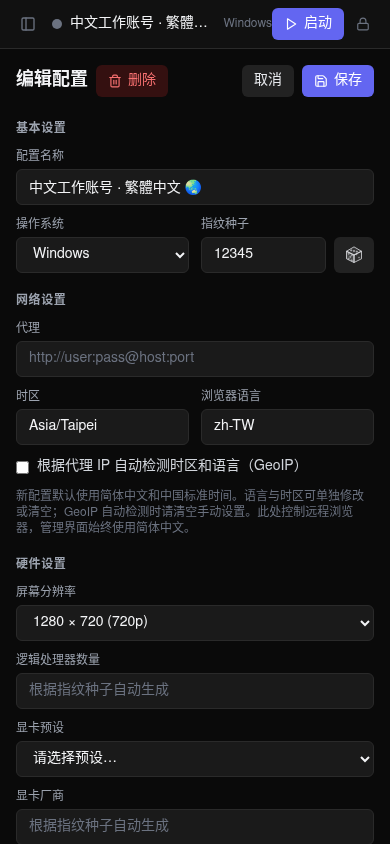
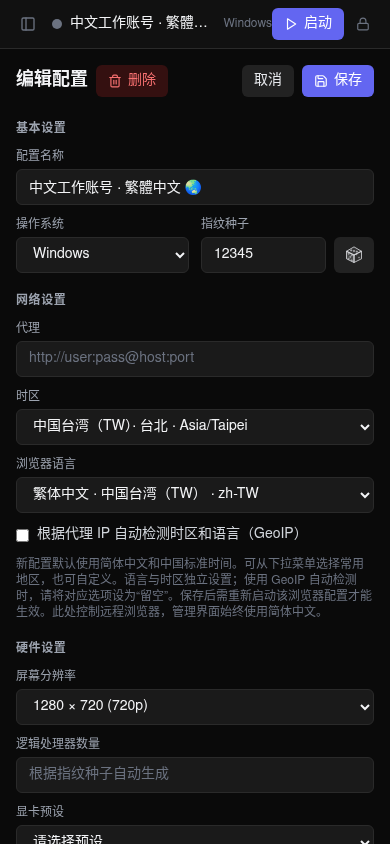
feat: add common timezone and browser language dropdowns

Changed region(s): [[0.0308, 0.4621, 0.9538, 1.0], [0.9231, 0.9858, 0.9538, 1.0], [0.9231, 0.8318, 0.9538, 0.8626]]

diff --git a/frontend/src/components/ProfileForm.tsx b/frontend/src/components/ProfileForm.tsx
@@ -1,6 +1,7 @@
 import { Save, Trash2, X } from "lucide-react";
 import { useEffect, useRef, useState } from "react";
 import type { Profile, ProfileCreateData } from "../lib/api";
+import { LOCALE_OPTIONS, RegionSelect, TIMEZONE_OPTIONS } from "./RegionSelect";
 import {
   KEEPASSXC_EXTENSION_ALLOW_ARG,
   KEEPASSXC_EXTENSION_ARG,
@@ -311,45 +312,25 @@ export function ProfileForm({ profile, onSave, onDelete, onCancel }: ProfileForm
                 placeholder="http://user:pass@host:port"
               />
             </div>
-            <div className="grid grid-cols-2 gap-3">
-              <div>
-                <label className="label" htmlFor="profile-field-5">时区</label>
-                <input
-                  id="profile-field-5"
-                  className="input"
-                  value={form.timezone ?? ""}
-                  onChange={(e) => set("timezone", e.target.value || null)}
-                  placeholder="例如：Asia/Shanghai"
-                  list="timezone-options"
-                />
-                <datalist id="timezone-options">
-                  <option value="Asia/Shanghai">中国标准时间</option>
-                  <option value="Asia/Taipei">台北时间</option>
-                  <option value="Asia/Hong_Kong">香港时间</option>
-                  <option value="Asia/Singapore">新加坡时间</option>
-                  <option value="America/New_York">纽约时间</option>
-                  <option value="Europe/London">伦敦时间</option>
-                  <option value="UTC">协调世界时</option>
-                </datalist>
-              </div>
-              <div>
-                <label className="label" htmlFor="profile-field-6">浏览器语言</label>
-                <input
-                  id="profile-field-6"
-                  className="input"
-                  value={form.locale ?? ""}
-                  onChange={(e) => set("locale", e.target.value || null)}
-                  placeholder="例如：zh-CN"
-                  list="locale-options"
-                />
-                <datalist id="locale-options">
-                  <option value="zh-CN">简体中文（中国大陆）</option>
-                  <option value="zh-TW">繁體中文（台灣）</option>
-                  <option value="zh-HK">繁體中文（香港）</option>
-                  <option value="en-US">英语（美国）</option>
-                  <option value="ja-JP">日语（日本）</option>
-                </datalist>
-              </div>
+            <div className="grid grid-cols-1 sm:grid-cols-2 gap-3">
+              <RegionSelect
+                key={`timezone-${profile?.id ?? "new"}`}
+                id="profile-field-5"
+                label="时区"
+                value={form.timezone}
+                options={TIMEZONE_OPTIONS}
+                placeholder="例如：Asia/Bangkok"
+                onChange={(value) => set("timezone", value)}
+              />
+              <RegionSelect
+                key={`locale-${profile?.id ?? "new"}`}
+                id="profile-field-6"
+                label="浏览器语言"
+                value={form.locale}
+                options={LOCALE_OPTIONS}
+                placeholder="例如：th-TH"
+                onChange={(value) => set("locale", value)}
+              />
             </div>
             <label className="flex items-center gap-2 text-sm text-gray-300 cursor-pointer">
               <input
@@ -360,7 +341,7 @@ export function ProfileForm({ profile, onSave, onDelete, onCancel }: ProfileForm
               />
               根据代理 IP 自动检测时区和语言（GeoIP）
             </label>
-            <p className="text-xs text-gray-500">新配置默认使用简体中文和中国标准时间。语言与时区可单独修改或清空；GeoIP 自动检测时请清空手动设置。此处控制远程浏览器，管理界面始终使用简体中文。</p>
+            <p className="text-xs text-gray-500">新配置默认使用简体中文和中国标准时间。可从下拉菜单选择常用地区，也可自定义。语言与时区独立设置；使用 GeoIP 自动检测时，请将对应选项设为“留空”。保存后需重新启动该浏览器配置才能生效。此处控制远程浏览器，管理界面始终使用简体中文。</p>
           </div>
         </section>
 

diff --git a/frontend/src/components/RegionSelect.tsx b/frontend/src/components/RegionSelect.tsx
@@ -1,0 +1,94 @@
+import { useState } from "react";
+
+type RegionOption = readonly [value: string, label: string];
+
+export const TIMEZONE_OPTIONS: readonly RegionOption[] = [
+  ["Asia/Shanghai", "中国大陆（CN）· 上海"],
+  ["Asia/Taipei", "中国台湾（TW）· 台北"],
+  ["Asia/Hong_Kong", "中国香港（HK）· 香港"],
+  ["America/New_York", "美国（US）· 东部 / 纽约"],
+  ["America/Chicago", "美国（US）· 中部 / 芝加哥"],
+  ["America/Denver", "美国（US）· 山地 / 丹佛"],
+  ["America/Los_Angeles", "美国（US）· 西部 / 洛杉矶"],
+  ["Asia/Tokyo", "日本（JP）· 东京"],
+  ["Europe/Berlin", "德国（DE）· 柏林"],
+  ["Europe/London", "英国（GB）· 伦敦"],
+  ["Europe/Paris", "法国（FR）· 巴黎"],
+  ["Asia/Seoul", "韩国（KR）· 首尔"],
+  ["Asia/Singapore", "新加坡（SG）"],
+  ["America/Toronto", "加拿大（CA）· 多伦多"],
+  ["America/Vancouver", "加拿大（CA）· 温哥华"],
+  ["Australia/Sydney", "澳大利亚（AU）· 悉尼"],
+  ["Asia/Kolkata", "印度（IN）· 加尔各答"],
+  ["UTC", "协调世界时（UTC）"],
+];
+
+export const LOCALE_OPTIONS: readonly RegionOption[] = [
+  ["zh-CN", "简体中文 · 中国大陆（CN）"],
+  ["zh-TW", "繁体中文 · 中国台湾（TW）"],
+  ["zh-HK", "繁体中文 · 中国香港（HK）"],
+  ["en-US", "英语 · 美国（US）"],
+  ["ja-JP", "日语 · 日本（JP）"],
+  ["de-DE", "德语 · 德国（DE）"],
+  ["en-GB", "英语 · 英国（GB）"],
+  ["fr-FR", "法语 · 法国（FR）"],
+  ["ko-KR", "韩语 · 韩国（KR）"],
+  ["en-SG", "英语 · 新加坡（SG）"],
+  ["en-CA", "英语 · 加拿大（CA）"],
+  ["en-AU", "英语 · 澳大利亚（AU）"],
+  ["en-IN", "英语 · 印度（IN）"],
+  ["es-ES", "西班牙语 · 西班牙（ES）"],
+  ["pt-BR", "葡萄牙语 · 巴西（BR）"],
+  ["ru-RU", "俄语 · 俄罗斯（RU）"],
+];
+
+interface RegionSelectProps {
+  id: string;
+  label: string;
+  value: string | null | undefined;
+  options: readonly RegionOption[];
+  placeholder: string;
+  onChange: (value: string | null) => void;
+}
+
+export function RegionSelect({ id, label, value, options, placeholder, onChange }: RegionSelectProps) {
+  const [customSelected, setCustomSelected] = useState(false);
+  const custom = customSelected || (!!value && !options.some(([preset]) => preset === value));
+
+  return (
+    <div className="min-w-0">
+      <label className="label" htmlFor={id}>{label}</label>
+      <select
+        id={id}
+        className="input"
+        value={custom ? "custom" : (value ?? "")}
+        onChange={(e) => {
+          const next = e.target.value;
+          setCustomSelected(next === "custom");
+          if (next !== "custom") onChange(next || null);
+        }}
+      >
+        <option value="">留空（使用 GeoIP 或浏览器默认值）</option>
+        {options.map(([preset, name]) => (
+          <option key={preset} value={preset}>{name} · {preset}</option>
+        ))}
+        <option value="custom">自定义…</option>
+      </select>
+      {custom && (
+        <div className="mt-2">
+          <label className="label" htmlFor={`${id}-custom`}>自定义{label}</label>
+          <input
+            id={`${id}-custom`}
+            className="input"
+            value={value ?? ""}
+            placeholder={placeholder}
+            onChange={(e) => {
+              setCustomSelected(true);
+              onChange(e.target.value || null);
+            }}
+          />
+        </div>
+      )}
+    </div>
+  );
+}

diff --git a/scripts/check_chinese_ui.py b/scripts/check_chinese_ui.py
@@ -90,8 +90,40 @@ async def main():
         await page.get_by_label('搜索配置').fill('繁體中文')
         await expect(page.get_by_role('button', name='运行中')).to_have_count(0)
         await expect(page.get_by_role('button').filter(has_text='中文工作账号').first).to_be_visible()
-        await page.get_by_label('浏览器语言', exact=True).fill('zh-TW')
-        await page.get_by_label('时区', exact=True).fill('Asia/Taipei')
+        # Verify actual submitted values, persistence, and independent custom fields.
+        for timezone, locale in [
+            ('America/Los_Angeles', 'en-US'),
+            ('Asia/Tokyo', 'ja-JP'),
+            ('Europe/Berlin', 'de-DE'),
+        ]:
+            await page.get_by_label('时区', exact=True).select_option(timezone)
+            await page.get_by_label('浏览器语言', exact=True).select_option(locale)
+            await page.get_by_role('button', name='保存', exact=True).click()
+            await expect(page.get_by_role('button', name='保存', exact=True)).to_be_enabled()
+            assert profiles[0]['timezone'] == timezone
+            assert profiles[0]['locale'] == locale
+        await page.get_by_label('时区', exact=True).select_option('custom')
+        await page.get_by_label('自定义时区', exact=True).fill('Asia/Bangkok')
+        await expect(page.get_by_label('浏览器语言', exact=True)).to_have_value('de-DE')
+        await page.get_by_label('浏览器语言', exact=True).select_option('custom')
+        await page.get_by_label('自定义浏览器语言', exact=True).fill('th-TH')
+        await page.get_by_role('button', name='保存', exact=True).click()
+        await expect(page.get_by_role('button', name='保存', exact=True)).to_be_enabled()
+        await page.reload()
+        await page.get_by_role('button').filter(has_text='中文工作账号').first.click()
+        await expect(page.get_by_label('自定义时区', exact=True)).to_have_value('Asia/Bangkok')
+        await expect(page.get_by_label('自定义浏览器语言', exact=True)).to_have_value('th-TH')
+        # Entering a preset manually must not remove the input or lose focus mid-edit.
+        await page.get_by_label('自定义浏览器语言', exact=True).fill('en-US')
+        await expect(page.get_by_label('自定义浏览器语言', exact=True)).to_be_focused()
+        await page.get_by_label('时区', exact=True).select_option('')
+        await page.get_by_label('浏览器语言', exact=True).select_option('')
+        await page.get_by_role('button', name='保存', exact=True).click()
+        await expect(page.get_by_role('button', name='保存', exact=True)).to_be_enabled()
+        assert profiles[0]['timezone'] is None
+        assert profiles[0]['locale'] is None
+        await page.get_by_label('浏览器语言', exact=True).select_option('zh-TW')
+        await page.get_by_label('时区', exact=True).select_option('Asia/Taipei')
         await page.get_by_role('button', name='保存', exact=True).click()
         await page.reload()
         await page.get_by_role('button').filter(has_text='中文工作账号').first.click()
@@ -112,7 +144,7 @@ async def main():
         await expect(page.get_by_text('选择一个浏览器配置，或新建配置开始使用')).to_be_visible()
         assert not profiles
         assert not errors, errors
-        print('PASS: Chinese login/errors, create/edit/search/delete, Unicode payload, locale preservation, desktop/mobile layout; no browser errors.')
+        print('PASS: Chinese login/errors, create/edit/search/delete, Unicode payload, US/JP/DE presets, custom locale preservation, clearing, desktop/mobile layout; no browser errors.')
         await browser.close()
 
 asyncio.run(main())

diff --git a/README.md b/README.md
@@ -10,7 +10,7 @@
 
 - 管理界面、登录页、表单、操作状态、工具提示、删除确认、错误提示与输入校验均使用简体中文。
 - 配置名称、备注、标签支持简繁中文和 Emoji；备注支持多行，配置名称支持中文搜索，保存和编辑保留原文。
-- 新建配置默认使用 `zh-CN` 和 `Asia/Shanghai`，可选择 `zh-TW`、`zh-HK` 等语言，也可输入任意有效语言/时区或清空。已有配置不会被改成中文语言或中国时区。
+- 新建配置默认使用 `zh-CN` 和 `Asia/Shanghai`，时区和语言提供常用地区下拉菜单，包括美国（东部/中部/山地/西部）、日本、德国、英国、法国、韩国等；也可选“自定义”输入其他有效值，或选“留空”交给 GeoIP / 浏览器默认值。语言与时区独立设置，保存后重启该浏览器配置生效。已有配置不会被改成中文语言或中国时区。
 - Docker 内提供 Noto CJK 中文字体、Emoji 字体和 `zh_CN.UTF-8` 环境；KeePassXC 界面设置为简体中文，并补齐 Qt 标准按钮和对话框的中文语言包。
 - 点击远程画面后可直接使用本机中文输入法；支持 Ctrl/Cmd+C、X、V 双向文字复制、剪切和粘贴，普通 HTTP 下也可使用。备用文字面板仍保留。
 - 标签和启动参数输入框识别输入法组合状态，确认候选词时不会提前添加。

diff --git a/CHANGELOG.zh-CN.md b/CHANGELOG.zh-CN.md
@@ -1,5 +1,10 @@
 # 更新记录
 
+## 0.1.0-zh.3
+
+- 时区和浏览器语言改为明确的下拉选择，增加美国、日本、德国等常用地区；美国提供四个常用时区。
+- 保留自定义输入和留空选项，兼容已有配置；手机上改为上下排列。
+
 ## 0.1.0-zh.2
 
 - 点击远程画面后直接使用本机中文输入法，自动提交已确认的文字，支持地址栏。
